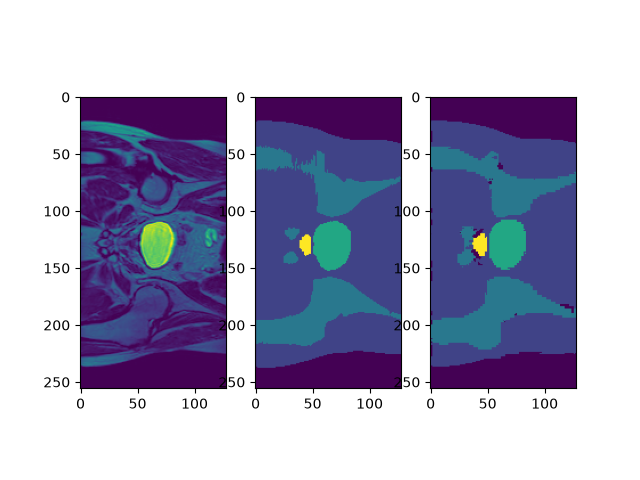
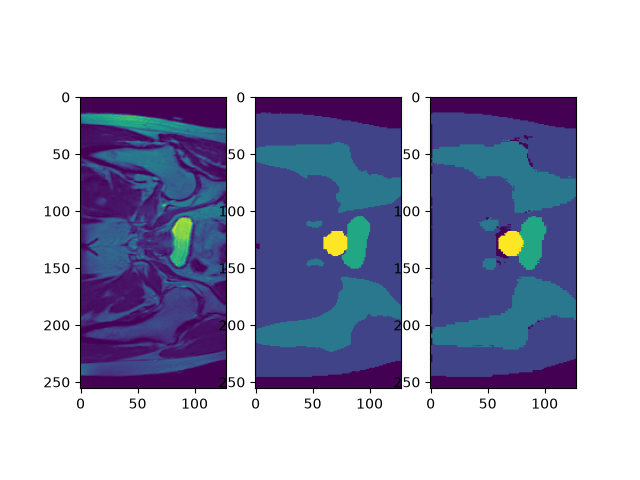
Implement code review recommendations, including fixing issues with validation and test loops, clearly indicating use of the entire dataset, recording averages for training loss, and changing plots and recommendations on the report given corrected metrics.

Changed region(s): [[0.125, 0.2188, 0.375, 0.7812], [0.375, 0.2188, 0.625, 0.8125], [0.6562, 0.2188, 0.9062, 0.8125]]

diff --git a/recognition/CAN3D_s48857309/train.py b/recognition/CAN3D_s48857309/train.py
@@ -22,7 +22,7 @@ def transform_training_data(images, labels):
 
 
 def train_3d():
-    print("Starting...")
+    print("Starting... 3D")
     # Hyper Parameters
     batch_size = 8
     learning_rate = 0.01
@@ -60,6 +60,8 @@ def train_3d():
     optimizer.zero_grad()
     for epoch in range(num_epochs):
         model.train()
+        total_loss_sum = torch.tensor(0.0, device=device, dtype=torch.float32)
+        total_loss_count = 0
         for i, (images, labels) in enumerate(train_loader):
             # Load Data
             images = images.to(device)
@@ -82,6 +84,9 @@ def train_3d():
             if i == 0 and epoch == 0:
                 print("First Loss: {:.5f}".format(loss.item() * batch_size), flush=True)
 
+            total_loss_sum += loss.item()
+            total_loss_count += 1
+
         # Save the model every tenth epoch
         if (epoch + 1) % 10 == 0:
             torch.save(model.state_dict(), 'parameters_3d_epoch_{}.pth'.format(epoch))
@@ -103,10 +108,11 @@ def train_3d():
 
         total_sum = total_sum / total_validation_samples
         validation_scores.append(total_sum[5].item())
-        loss_scores.append(loss.item())
+        total_loss_sum = total_loss_sum / total_loss_count
+        loss_scores.append(total_loss_sum.item())
 
         print("Epoch [{}/{}],  Loss: {:.5f}, Validation: {} Time: {} secs"
-            .format(epoch+1, num_epochs, loss.item(), total_sum, time.time() - start), flush=True)
+            .format(epoch+1, num_epochs, total_loss_sum.item(), total_sum, time.time() - start), flush=True)
 
     torch.save(model.state_dict(), 'final_parameters_3d.pth')
 
@@ -127,7 +133,7 @@ def batch_output_to_3d_volume_batch(batch : torch.Tensor):
     return batch.permute(1, 2, 0, 3)[None,:,:,:,:]
 
 def train_2d():
-    print("Starting...")
+    print("Starting... 2D")
     # Hyper Parameters
     batch_size = 8
     learning_rate = 0.01
@@ -165,7 +171,10 @@ def train_2d():
     optimizer.zero_grad()
     for epoch in range(num_epochs):
         model.train()
+        total_loss_sum = torch.tensor(0.0, device=device, dtype=torch.float32)
+        total_loss_count = 0
         for i, (images, labels) in enumerate(train_loader):
+            # Note: train_loader only has batch-size = 1
             # Load Data
             images = images.to(device)
             labels = labels.to(device)
@@ -187,6 +196,9 @@ def train_2d():
             if i == 0 and epoch == 0:
                 print("First Loss: {:.5f}".format(loss.item() * batch_size), flush=True)
 
+            total_loss_sum += loss.item()
+            total_loss_count += 1
+
         # Save the model every tenth epoch
         if (epoch + 1) % 10 == 0:
             torch.save(model.state_dict(), 'parameters_2d_epoch_{}.pth'.format(epoch))
@@ -197,10 +209,11 @@ def train_2d():
 
         with torch.inference_mode():
             for i, (image, label) in enumerate(val_loader):
+                # Note: val_loader only has batch-size = 1
                 image = image.to(device)
                 label = label.to(device).long()
 
-                predictions = batch_output_to_3d_volume_batch(model(volume_to_2d_batch(images[0])))
+                predictions = batch_output_to_3d_volume_batch(model(volume_to_2d_batch(image[0])))
 
                 sum_dice_per_class, no_in_batch = calculate_descrete_dsc(predictions, label)
                 total_sum += sum_dice_per_class
@@ -208,10 +221,11 @@ def train_2d():
 
         total_sum = total_sum / total_validation_samples
         validation_scores.append(total_sum[5].item())
-        loss_scores.append(loss.item())
+        total_loss_sum = total_loss_sum / total_loss_count
+        loss_scores.append(total_loss_sum.item())
 
         print("Epoch [{}/{}],  Loss: {:.5f}, Validation: {} Time: {} secs"
-            .format(epoch+1, num_epochs, loss.item(), total_sum, time.time() - start), flush=True)
+            .format(epoch+1, num_epochs, total_loss_sum.item(), total_sum, time.time() - start), flush=True)
 
     torch.save(model.state_dict(), 'final_parameters_2d.pth')
 

diff --git a/recognition/CAN3D_s48857309/predict.py b/recognition/CAN3D_s48857309/predict.py
@@ -13,7 +13,7 @@ print("Using device: ", device)
 
 def predict_3d():
     # Create Database
-    database = HipMRI3D(early_stop=5)
+    database = HipMRI3D()
     train_set, val_set, test_set = get_training_test_split(database, test_size=0.2, val_size=0.1)
     train_loader = DataLoader(train_set, batch_size=1, shuffle=True)
     val_loader = DataLoader(val_set, batch_size=1, shuffle=False)
@@ -85,7 +85,7 @@ def batch_output_to_3d_volume_batch(batch : torch.Tensor):
 
 def predict_2d():
     # Create Database
-    database = HipMRI3D(early_stop=5)
+    database = HipMRI3D()
     train_set, val_set, test_set = get_training_test_split(database, test_size=0.2, val_size=0.1)
     train_loader = DataLoader(train_set, batch_size=1, shuffle=True)
     val_loader = DataLoader(val_set, batch_size=1, shuffle=False)
@@ -130,11 +130,12 @@ def predict_2d():
 
     with torch.inference_mode():
         for i, (image, label) in enumerate(test_loader):
+            # Note: val loader only has batch-size = 1
             print("{}/{} Test Batches".format(i+1, number_of_tests))
             image = image.to(device)
             label = label.to(device).long()
 
-            output = batch_output_to_3d_volume_batch(model(volume_to_2d_batch(images[0])))
+            output = batch_output_to_3d_volume_batch(model(volume_to_2d_batch(image[0])))
 
             sum_dice_per_class, no_in_batch = calculate_descrete_dsc(output, label)
             sum_IoU_per_class, _ = calculate_intersection_over_union(output, label)

diff --git a/recognition/CAN3D_s48857309/README.md b/recognition/CAN3D_s48857309/README.md
@@ -129,11 +129,11 @@ The final CAN3D model was trained with 100 epochs using the Adam optimiser, a le
 The final CAN2D model was trained on only 70 epochs, but with identical optimiser, loss, batch size, and learning rate.
 
 ## Examples and Plots
-The final model gave the following output predictions.
+The final model gave the following output predictions. The following image was sampled from the hold-out set.
 
 ![3D prediction example](prediction_example_3d.png)
 
-In this diagram above, yellow indicates the prostate. The left-most image shows a particular slice of an MRI taken from a 3D volume. The middle shows the expert-labelled segmentation, and the right shows the CAN3D model segmentation. We can see that the models prediction has a few spots that are incorrectly classified as background which contribute to some of the noise of the prediction. We see that in this case, the prediction for the bone class is actually more realistic than the expert labelling, since we see in our model's prediction, a continuous bone region, while on the expert-classified segmentation, the upper left corner shows some artifacts.
+In this diagram above, yellow indicates the prostate. The left-most image shows a particular slice of an MRI taken from a 3D volume. The middle shows the expert-labelled segmentation, and the right shows the CAN3D model segmentation. We can see that the models prediction has a few spots that are incorrectly classified as background which contribute to some of the noise of the prediction. Otherwise, we see that our prediction is overall less sharp, though it fits fairly well across the board.
 
 While training the model, we saw the validation loss curve below:
 
@@ -176,12 +176,12 @@ The final testing accuracy of the CAN3D and CAN2D model are displayed below for 
 | ----- | --------- | ---------- | ---- | ----- | ------- | ------ | -------- | -- |
 | CAN3D | Dice Coefficient | 0.9787 | 0.9668 | 0.8577 | 0.8227 | 0.7785 | 0.7792 | 0.8639 |
 | | Intersection/Union | 0.9787| 0.9359 | 0.7515 | 0.7084 | 0.6484 | 0.6506 | 0.7789 |
-| CAN2D | Dice Coefficient | 0.9330 | 0.8401 | 0.5464 | 0.3323 | 0.2536 | 0.3205 | 0.5377 |
-| |Intersection/Union | 0.8748 | 0.7265 | 0.3847 | 0.2121 | 0.1537 | 0.2091 | 0.4268 |
+| CAN2D | Dice Coefficient | 0.9913 | 0.9667 | 0.8292 | 0.8240 | 0.7982 | 0.7615 | 0.8618 |
+| |Intersection/Union | 0.9827 | 0.9355 | 0.7089 | 0.7091 | 0.6686 | 0.6304 | 0.7725 |
 
-We can see that the 3D model massively outperforms the CAN2D model on this problem. See also that CAN3D reached a Dice Coefficient greater than 0.7 across the board.
+We can see that the 3D model performs similarly to the CAN2D model on this problem. In this case, on the target class (prostate), CAN2D performs marginally worse, though the difference is likely statistically insignificant. See also that CAN3D reached a Dice Coefficient greater than 0.7 across the board.
 
-Below is the validation curve for the CAN2D model. Compared to the validation curve shown ealier for CAN3D, we see that it is much more unstable during training.
+Below is the validation curve for the CAN2D model. Compared to the validation curve shown ealier for CAN3D, we see that they are very similar in terms of their trajectory.
 
 ![Validation curves 2D](validation_curves_2d.png)
 
@@ -240,13 +240,13 @@ This image is an error around the base of the prostate. We again see that the mo
 This is a central slice taken from a typical patient (no enlarged prostate). We see false positives around the boundary of the prostate, with similar errors for both the 2D and 3D model, with the 3D model being negligibly better in this case.
 
 #### Error Autopsy Summary
-We see that the most catastrophic errors occur near the boundary of the prostate, as we usually expected. It does not seem that there is a clear advantage of the 3D model over the 2D model, since both models exhibit catastrphic failures in some cases. This is especially surprising, since the quantitative metrics for accuracy were much higher for the CAN3D model. 
+We see that the most catastrophic errors occur near the boundary of the prostate, as we usually expected. It does not seem that there is a clear advantage of the 3D model over the 2D model, since both models exhibit catastrphic failures in some cases. This is unsurprising, since the quantitative metrics for accuracy between CAN2D and CAN3D were similar similar. 
 
 For the CAN3D model, in the cases above, we do not see any false-negatives. Most errors are false-positives, meaning that the model predicted the prostate to be in a location that it was not. This indicates that the usual mode of failure for the CAN3D model is to overestimate the area of the prostate, and bleed through the boundary, rather than underestimate the size.
 
 ### Conclusions, Recommendations and Trade-Offs
 #### Summary
-Overall, there was a quantitative advantage for CAN3D compared to CAN2D, where the CAN3D model achieved a far greater Dice Coefficient and Intersection over Union score than the CAN2D model, despite using similar training parameters. Based on this implementation, there does not seem to be a major performance disadvantage for the CAN3D model, where both models took similar training time, inference time, and memory usage. For this implementation, CAN3D beats CAN2D overall on all performance metrics. However, from qualatative analysis, we found that the error conditions for the models are quite similar.
+Overall, there does not seem to be an advantage of CAN3D compared to CAN2D, where the CAN3D model achieved a Dice-Coefficient and Intersection of Union that were similar. Based on this implementation, there does not seem to be a major performance disadvantage for the CAN3D model, where both models took similar training time, inference time, and memory usage. For this implementation, CAN3D beats CAN2D on most performance metrics, in particular, inference time, and memory usage. From qualatative analysis, we found that the error conditions for the models were also quite similar.
 
 My stated acceptance criteria for the models stated in the Feasibility report were:
 * Segmentation of the model visually shows reasonable gains on base and apex slices compared to the 2D baseline.
@@ -260,9 +260,9 @@ The first three acceptance criteria are not satisfied. From the case analysis of
 However, the last two criteria have been shown for the CAN3D model, where we see an overall Dice-coefficient of greater than 0.86, and a Dice-coefficient for the target class (prostate) of approximately 0.78.
 
 #### Recommendations and Trade-Offs
-There does not seem to be any significant negative trade-off for CAN3D for this implementation, since it performs superior to the CAN2D model, and infers faster, uses less memory, and trains in a similar amount of time. I recommend continuing to pursue true 3D techniques. I would recommend against using this model in a clinical setting without heavy huan oversight, since the CAN3D model does not fundementally solve the catestrophic errors of the 2D model.
+There does not seem to be any significant negative trade-off for CAN3D for this implementation, since it performs equal to the CAN2D model, and infers faster, uses less memory, and trains in a similar amount of time. I recommend continuing to refine the baseline model rather than pursue the current true 3D techniques, since they only perform marginally better at prediction given the current architecture, and implementation changes in the CAN2D model are likely to result in runtime performance improvements beyond what was shown. I would recommend against using this model in a clinical setting without heavy human oversight, since the CAN3D model does not fundementally solve the catestrophic errors of the 2D model.
 
-For future investigations, I would consider attempting different implementations of the CAN2D model which may use less memory, for example, by performing downsampling to reduce memory requirements in intermediate layers, or infering one slice at a time, and combining them at the end, rather than feeding the entire volume as a batch at once. The one-slice-at-a-time optimisation would be impossible in CAN3D, since it requires full access to the entire volume during inference. This would show more clearly the difference in memory use between the two models, which would create a clearer trade-off and potential advantage for CAN2D.
+For future investigations, I would consider attempting different implementations of the CAN2D model which may use less memory, for example, by performing downsampling to reduce memory requirements in intermediate layers, or infering one slice at a time, and combining them at the end, rather than feeding the entire volume as a batch at once. The one-slice-at-a-time optimisation would be impossible in CAN3D, since it requires full access to the entire volume during inference. This would show more clearly the difference in memory use between the two models, which would create a clearer advantage for CAN2D.
 
 In future, I would try performing more experiments involving comparing how the balance between Focal Loss and Dice Squared Loss effects boundary errors. Potentially incorporating a loss function which is more sensitive to false positives near the boundaries, and would correct for the bias of the models to overestimate rather than underestimate the prostate boundary.
 
